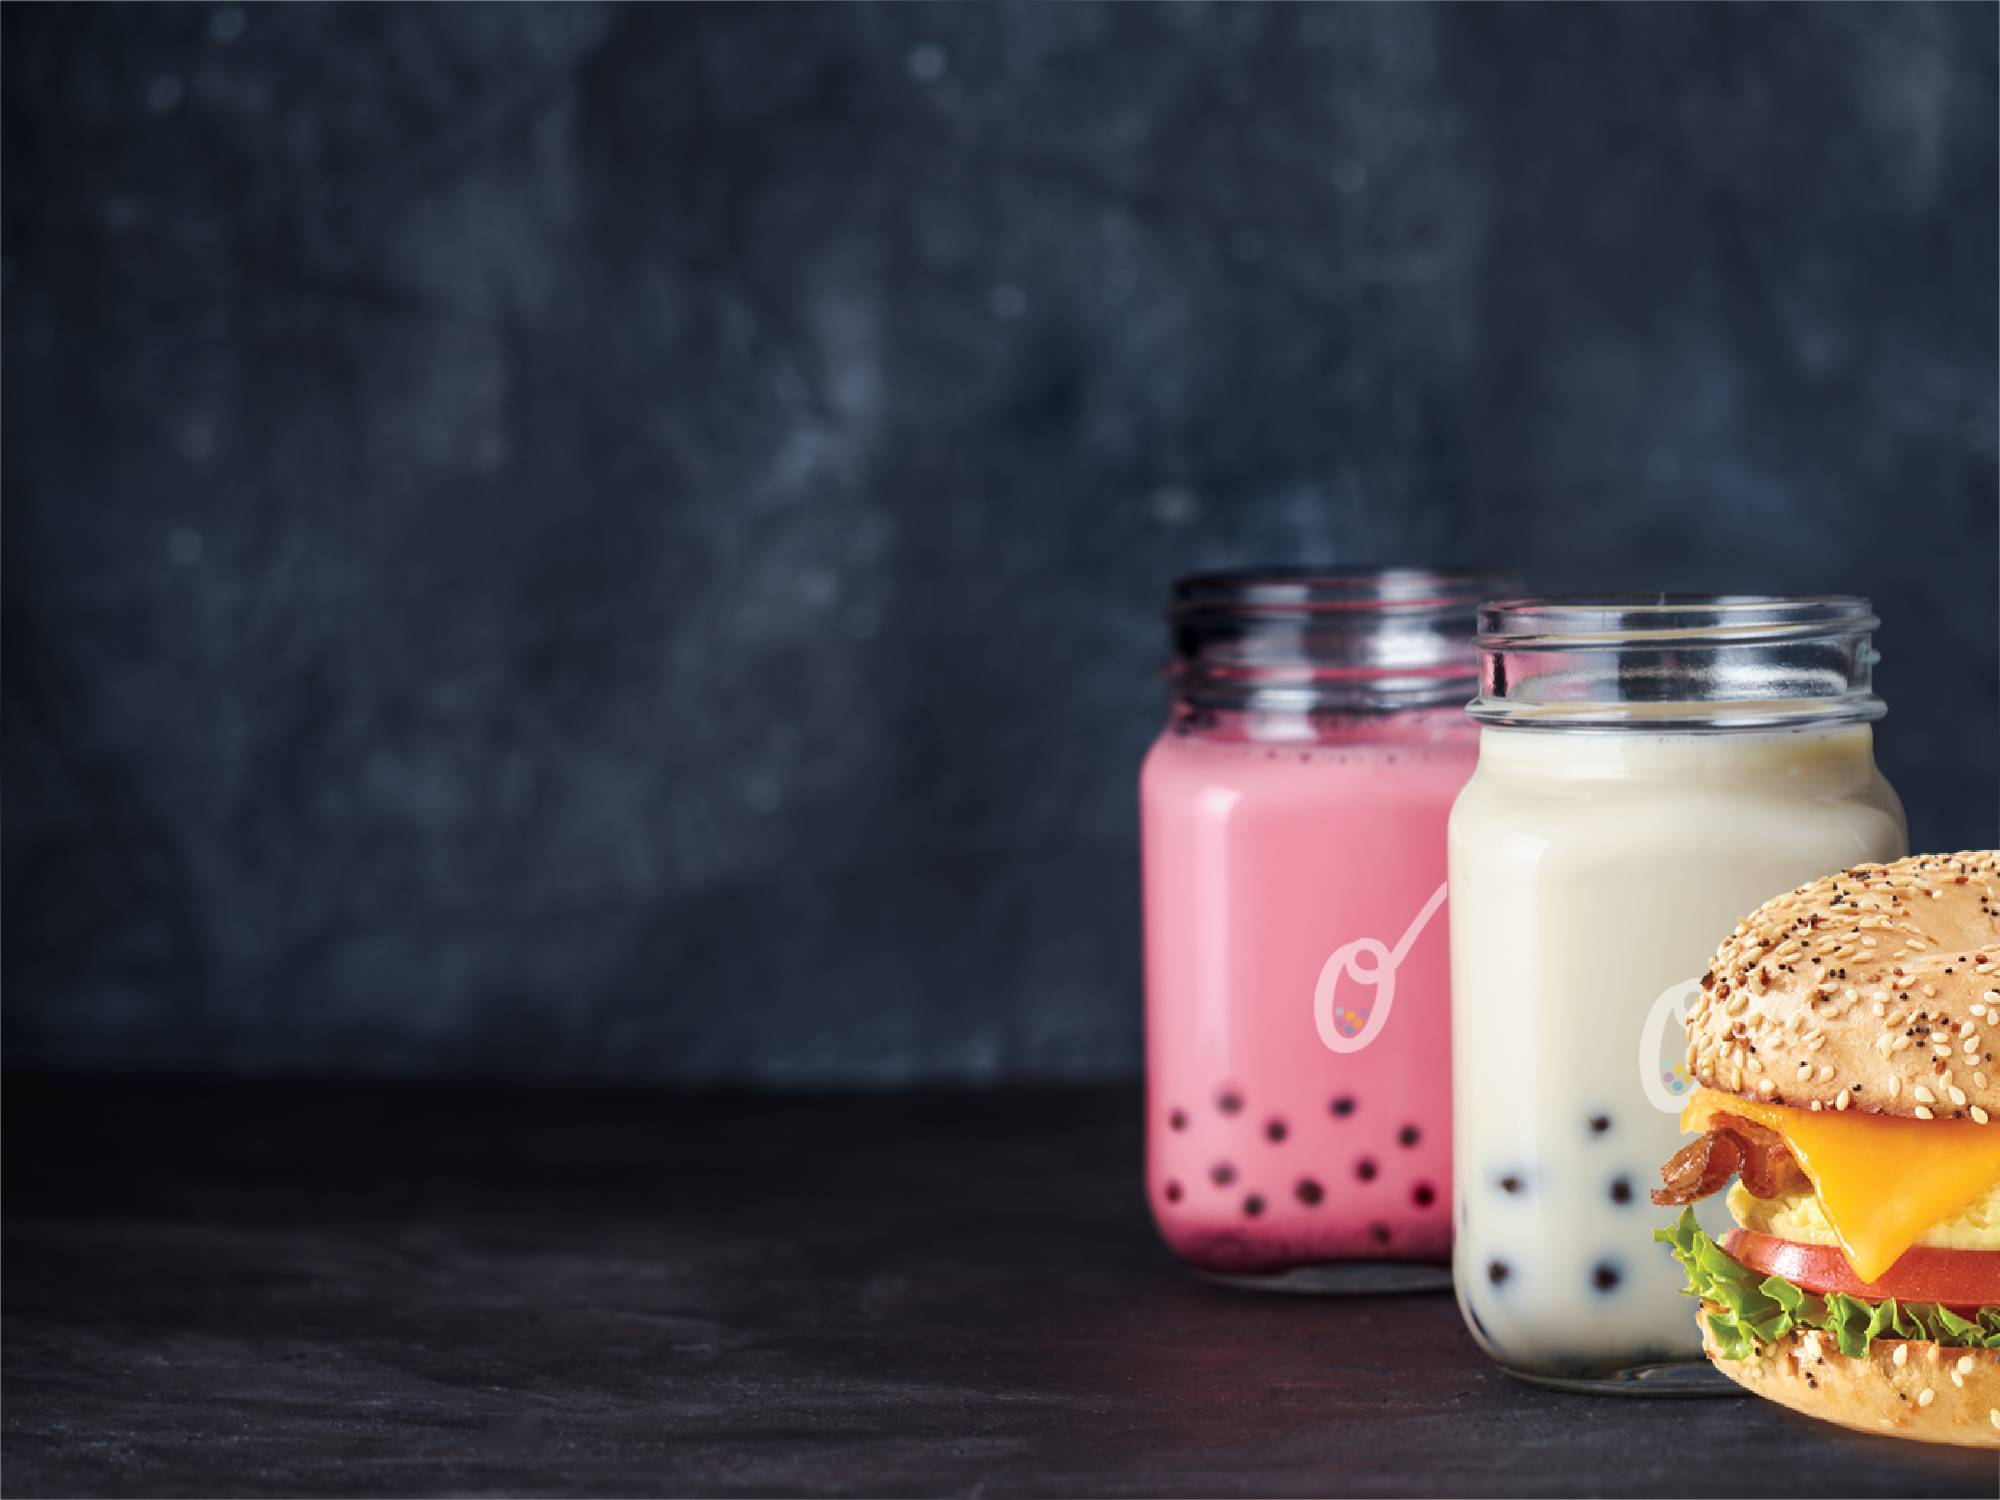
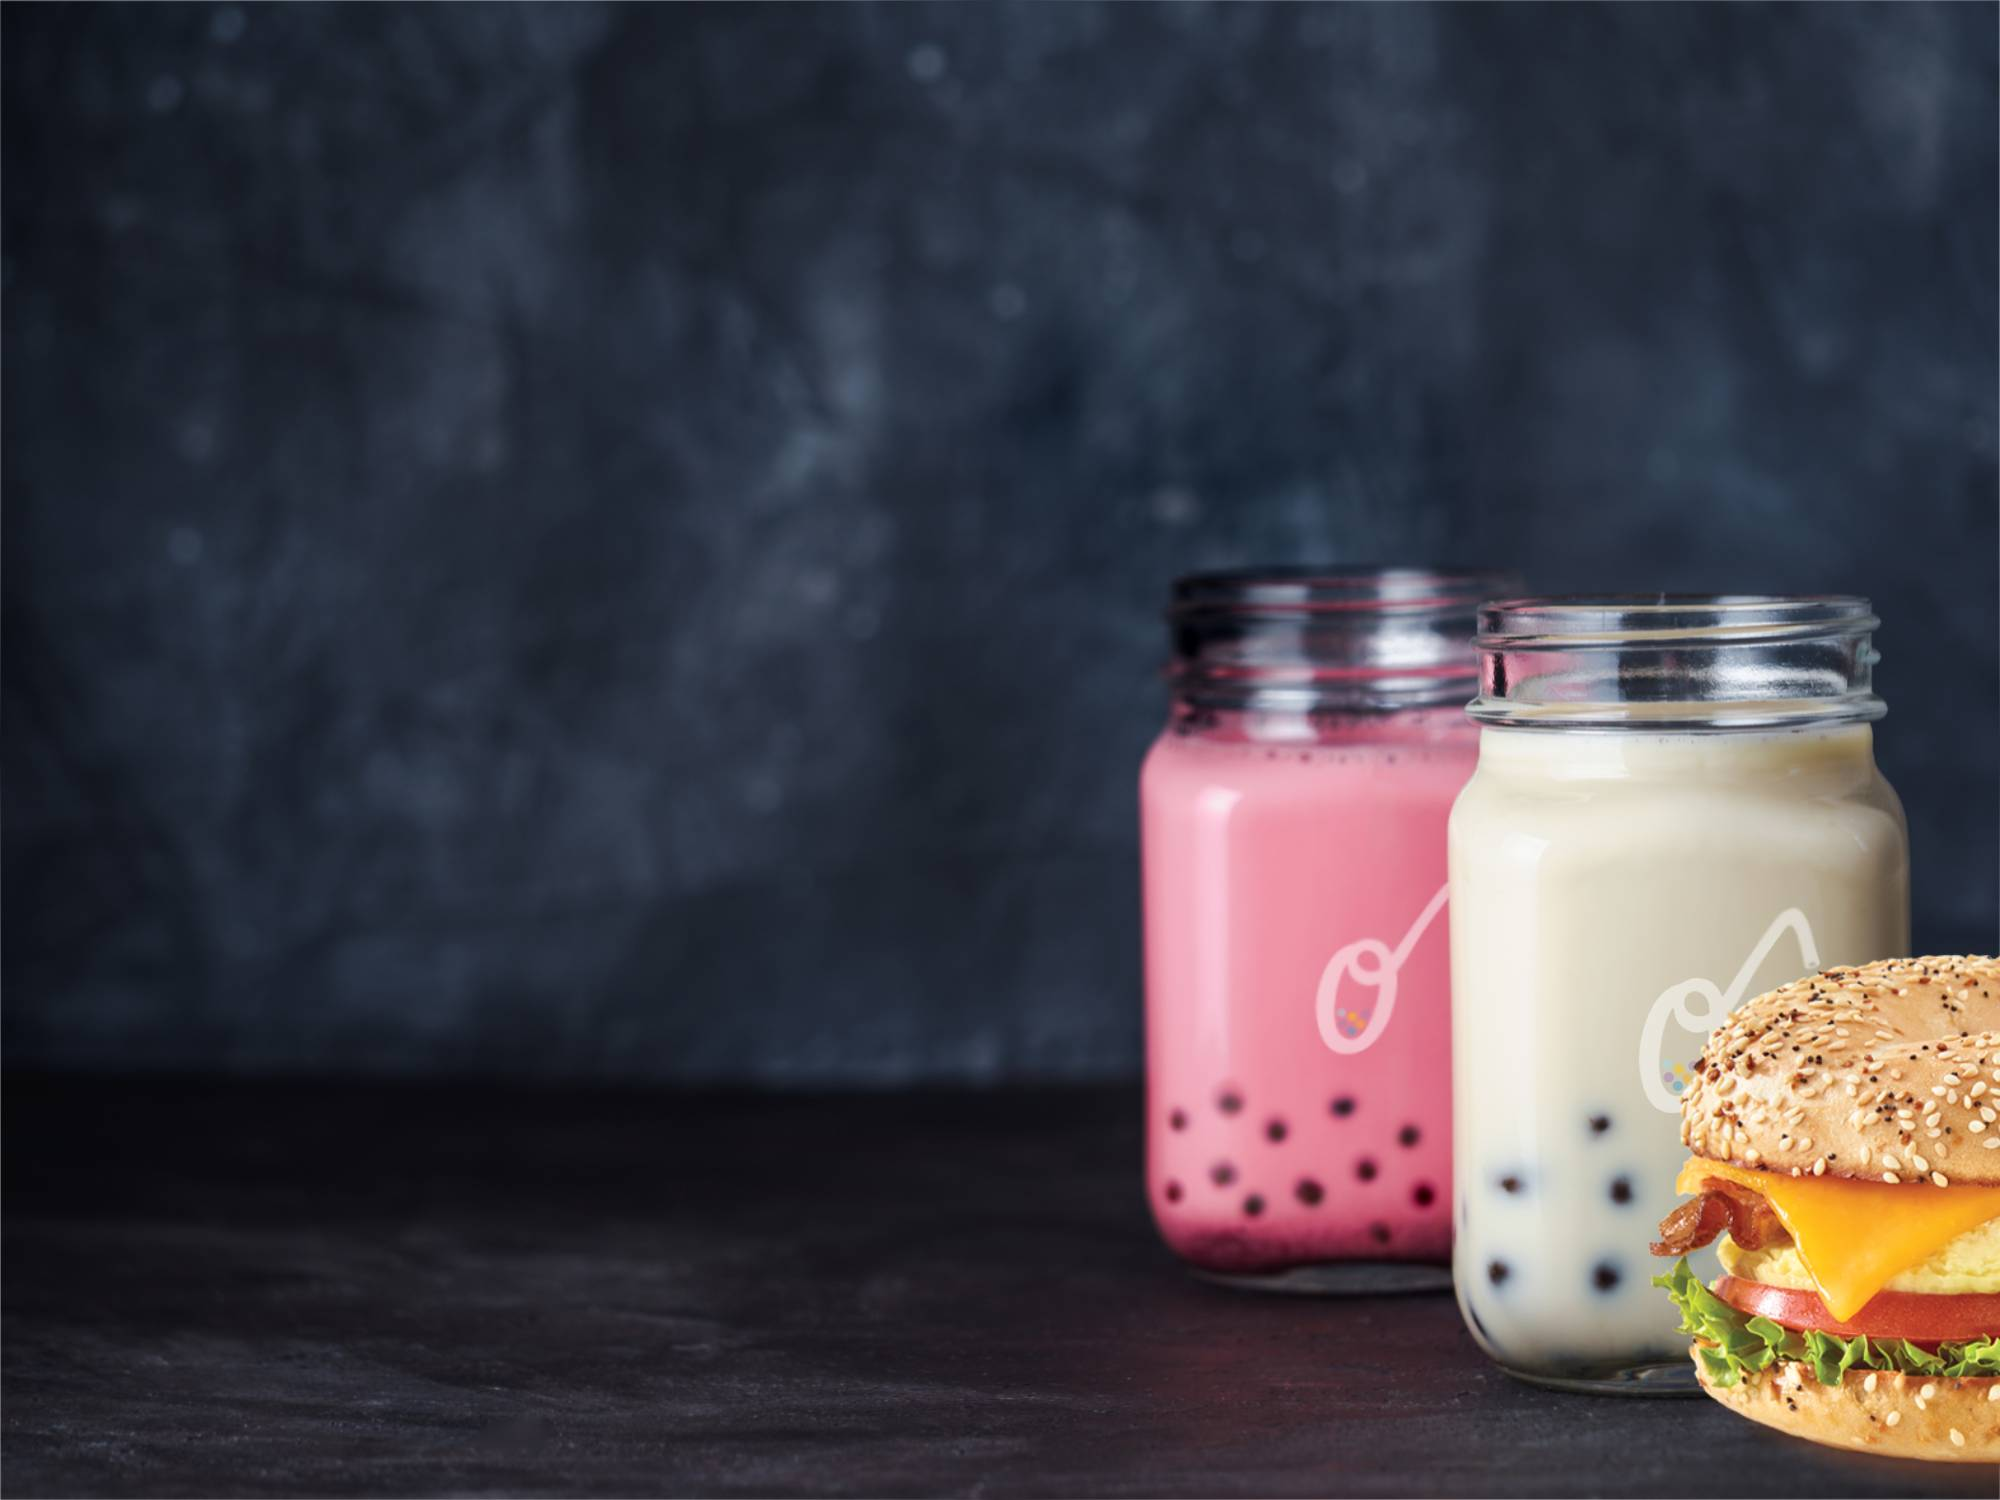
modified image with blurred ones

Changed region(s): [[0.806, 0.552, 1.0, 0.9813]]

diff --git a/css/style-index.scss b/css/style-index.scss
@@ -183,7 +183,7 @@ html {
 }
 
 .crsl-bg1 {
-  background-image: url(../img-obubble/bbt-showcase-with-logos.jpg);
+  background-image: url(../img-obubble/bbt-showcase-with-two-jarres.jpg);
   transition: 0.05s ease-in;
 }
 
